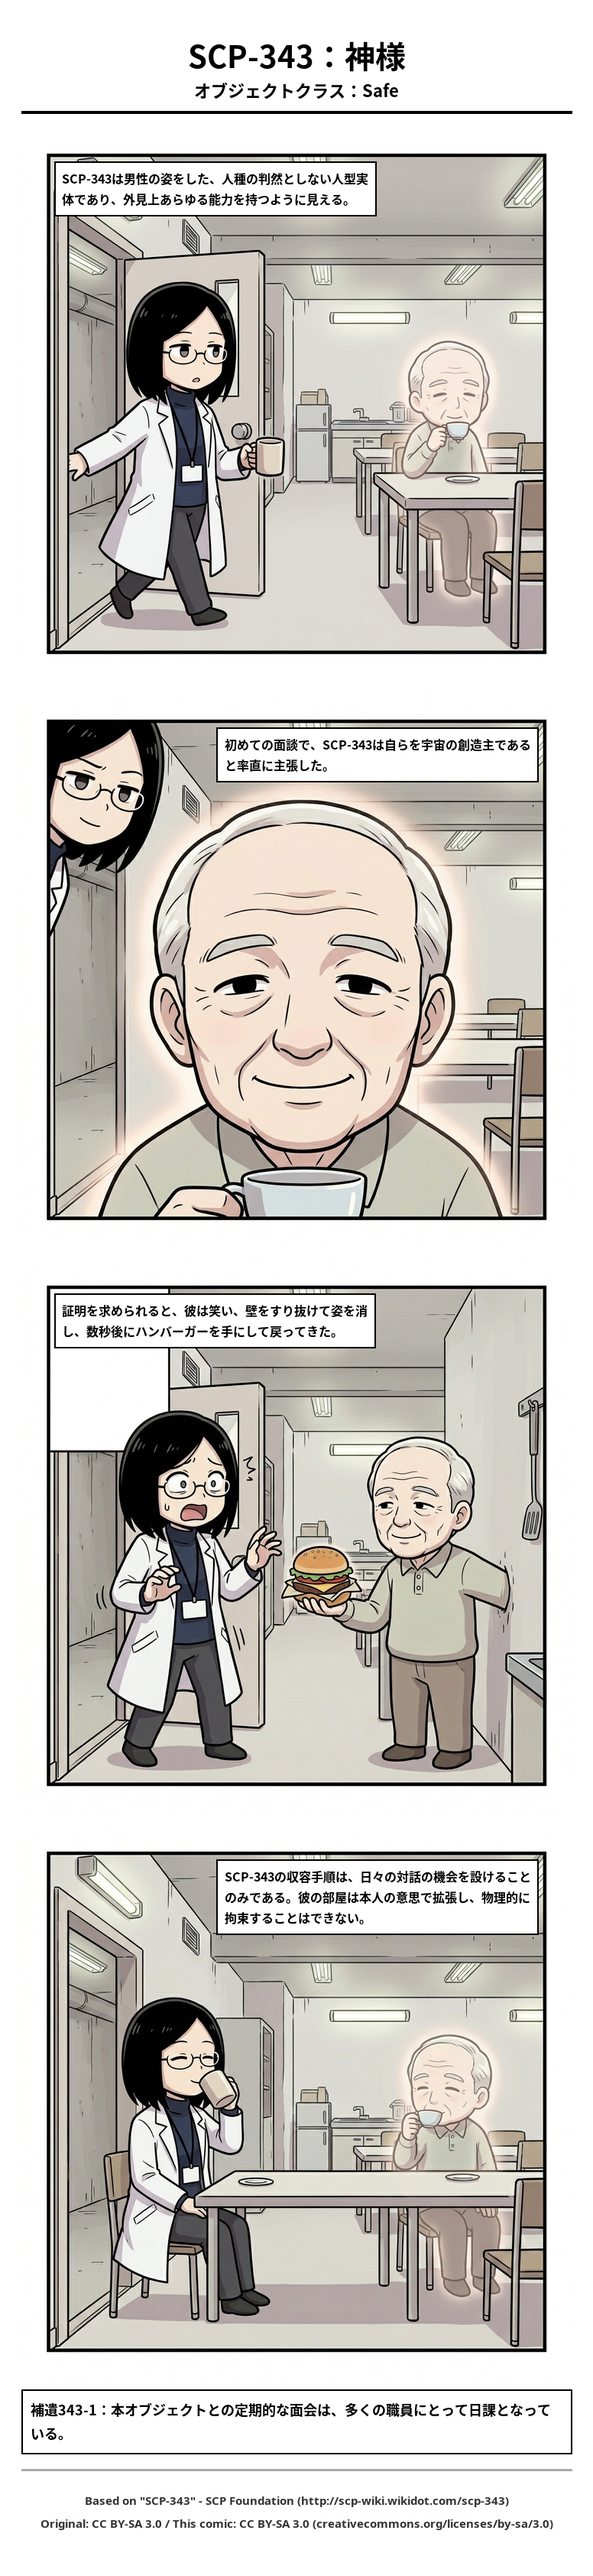
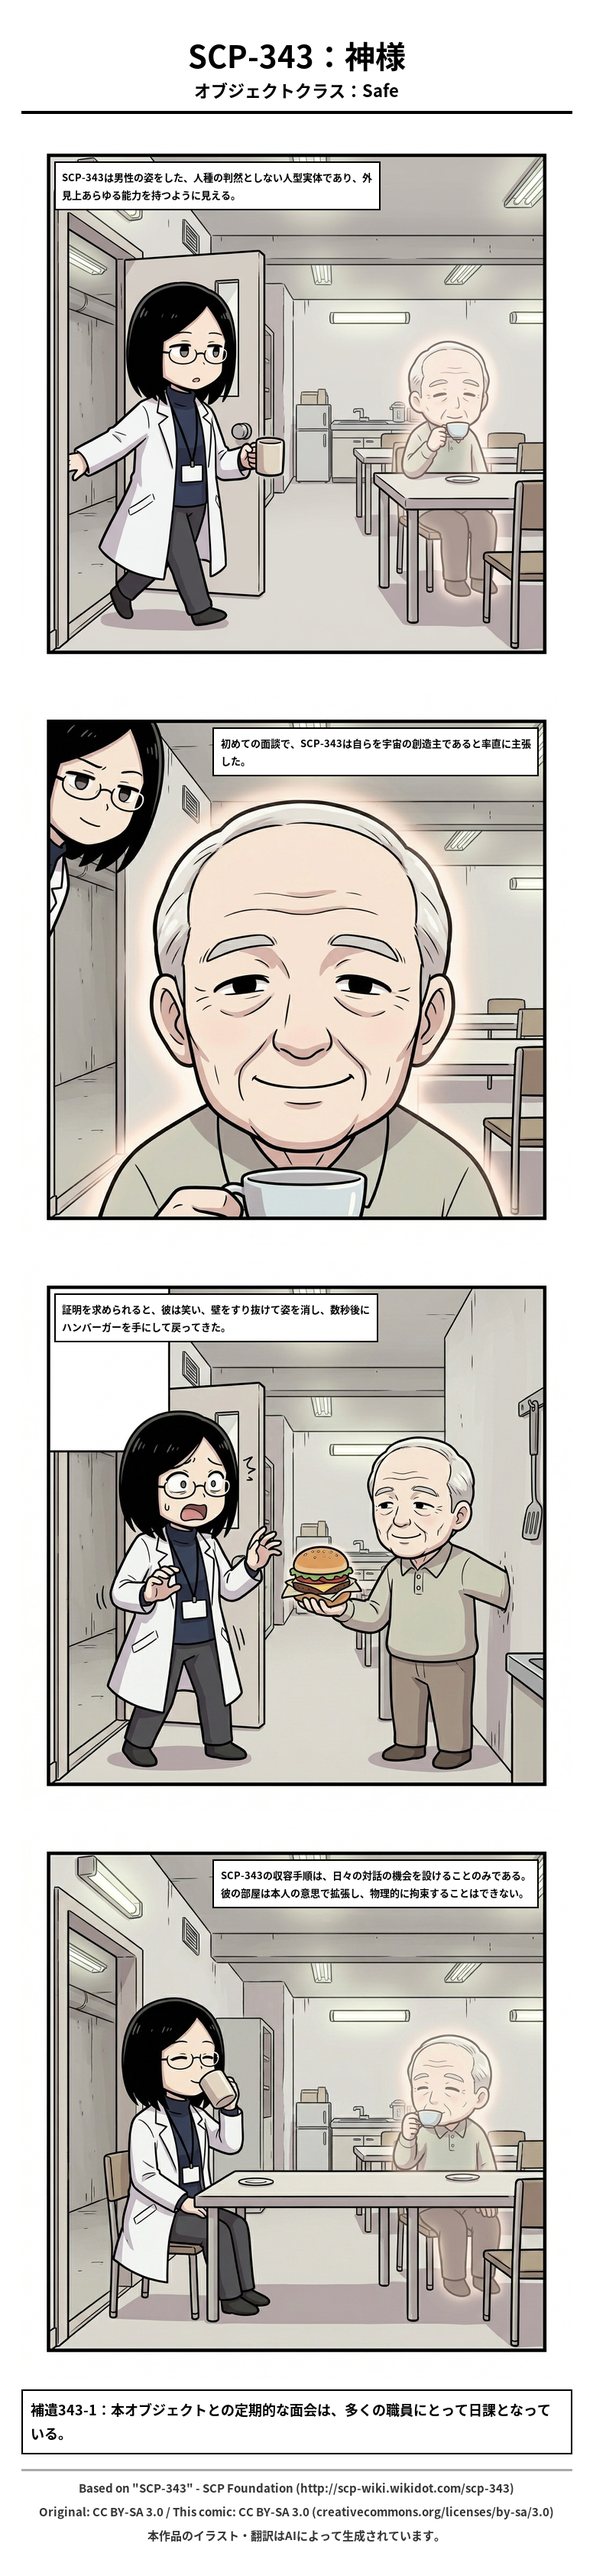
Add per-panel generation, character-order guidance, and AI-notice footer
- generate_panels.py / run_pipeline.py: add --panel N to regenerate (or
  generate --variants candidates for) a single panel instead of the
  whole comic. prompts.json is now merged per-panel (keyed by panel
  number) instead of overwritten, both for the direct generate() log and
  the panels_temp/ variants log, so partial reruns don't lose history
  for untouched panels.
- CLAUDE.md: document that characters[] order (and local_characters, see
  below) should match the order actions are described in scene, since
  testing showed the model binds visual identity to role/position by
  list order — not just by name — when a scene has two characters doing
  distinct things. Mismatched order causes the wrong character to
  visually perform the wrong role (confirmed on scp-105 panel 3).
- scp-105.yaml: apply local_characters to register SCP-105 herself
  (previously undocumented/inline-only) with matching characters[]
  ordering per panel; revise panel 3's scene through several iterations
  ending on: SCP-105 holds the photo and reaches a free hand behind it,
  a warp-gate-like portal floats near the table with a hand emerging
  from it, and the researcher reacts in shock.
- Footer: add a per-language "generated with AI" notice. Moved footer
  text drawing from compose.py (which drew the same 2 English lines into
  base.png for every language) to embed_text.py, appending the
  translated notice (config/languages.yaml: ai_notice, 15 languages) to
[…]

diff --git a/scripts/generate_panels.py b/scripts/generate_panels.py
@@ -110,7 +110,24 @@ def make_mock_panel(index):
     return img
 
 
-def generate(script, cfgs, mock=False):
+def _check_panel_index(script, panel):
+    n = len(script["panels"])
+    if panel is not None and not (1 <= panel <= n):
+        raise ValueError(f"--panel must be between 1 and {n} (got {panel})")
+
+
+def _merge_prompts_log(existing, new_entries):
+    """panel番号をキーに、既存ログへ新しいエントリを上書きマージする
+    （--panel指定で1コマだけ再生成した場合に他コマのログを消さないため）。"""
+    by_panel = {e["panel"]: e for e in existing}
+    for e in new_entries:
+        by_panel[e["panel"]] = e
+    return [by_panel[k] for k in sorted(by_panel)]
+
+
+def generate(script, cfgs, mock=False, panel=None):
+    """全コマ、または panel（1始まりのコマ番号）を指定すればそのコマだけ生成する。"""
+    _check_panel_index(script, panel)
     comic_dir = os.path.join(cfglib.OUTPUT_DIR, script["id"])
     panels_dir = os.path.join(comic_dir, "panels")
     os.makedirs(panels_dir, exist_ok=True)
@@ -119,24 +136,38 @@ def generate(script, cfgs, mock=False):
     provider_name = gen_cfg.get("provider", "gemini")
     provider = providers.get(provider_name) if not mock else None
 
-    prompts_log = []
     n = len(script["panels"])
+    targets = [panel] if panel else list(range(1, n + 1))
+
+    # 単一コマ指定時、前コマ参照用にディスク上の既存panel_k.pngを拾っておく
     prev_paths = []
-    for i, panel in enumerate(script["panels"], 1):
+    for k in range(1, targets[0]):
+        existing = os.path.join(panels_dir, f"panel_{k}.png")
+        if os.path.exists(existing):
+            prev_paths.append(existing)
+
+    prompts_log = []
+    for i in targets:
+        p = script["panels"][i - 1]
         out_path = os.path.join(panels_dir, f"panel_{i}.png")
-        prompt = build_prompt(script, panel, cfgs, provider_name)
+        prompt = build_prompt(script, p, cfgs, provider_name)
         prompts_log.append({"panel": i, "prompt": prompt})
         print(f"[generate] panel {i}/{n}")
         if mock:
             img = make_mock_panel(i)
         else:
-            refs = collect_reference_images(script, panel, cfgs, prev_paths)
+            refs = collect_reference_images(script, p, cfgs, prev_paths)
             img = provider.generate_image(prompt, refs, gen_cfg)
         img.convert("RGB").save(out_path)
         prev_paths.append(out_path)
 
-    with open(os.path.join(panels_dir, "prompts.json"), "w", encoding="utf-8") as f:
-        json.dump(prompts_log, f, ensure_ascii=False, indent=2)
+    prompts_path = os.path.join(panels_dir, "prompts.json")
+    existing_log = []
+    if os.path.exists(prompts_path):
+        with open(prompts_path, encoding="utf-8") as f:
+            existing_log = json.load(f)
+    with open(prompts_path, "w", encoding="utf-8") as f:
+        json.dump(_merge_prompts_log(existing_log, prompts_log), f, ensure_ascii=False, indent=2)
     return comic_dir
 
 
@@ -156,14 +187,16 @@ def _next_variant_start(temp_dir, panel_index):
     return max_v + 1
 
 
-def generate_variants(script, cfgs, count, mock=False):
+def generate_variants(script, cfgs, count, mock=False, panel=None):
     """各コマにつきcount枚の候補を output/<id>/panels_temp/panel_N_vM.png に生成する。
+    panel（1始まりのコマ番号）を指定すればそのコマだけ候補を追加生成する。
 
     panels/panel_N.png には一切書き込まない（選別前の下書き置き場）。
     人手でpanels_temp/から気に入った1枚を選び、panels/panel_N.pngとして
     保存してから --skip-generate で合成・埋め込みを実行する運用を想定している。
     既に候補が残っている場合は上書きせず、次のバージョン番号から追加生成する。
     """
+    _check_panel_index(script, panel)
     comic_dir = os.path.join(cfglib.OUTPUT_DIR, script["id"])
     temp_dir = os.path.join(comic_dir, "panels_temp")
     os.makedirs(temp_dir, exist_ok=True)
@@ -172,10 +205,13 @@ def generate_variants(script, cfgs, count, mock=False):
     provider_name = gen_cfg.get("provider", "gemini")
     provider = providers.get(provider_name) if not mock else None
 
-    prompts_log = []
     n = len(script["panels"])
-    for i, panel in enumerate(script["panels"], 1):
-        prompt = build_prompt(script, panel, cfgs, provider_name)
+    targets = [panel] if panel else list(range(1, n + 1))
+
+    prompts_log = []
+    for i in targets:
+        p = script["panels"][i - 1]
+        prompt = build_prompt(script, p, cfgs, provider_name)
         prompts_log.append({"panel": i, "prompt": prompt})
         start = _next_variant_start(temp_dir, i)
         for offset in range(count):
@@ -190,17 +226,19 @@ def generate_variants(script, cfgs, count, mock=False):
                 img = provider.generate_image(prompt, [], gen_cfg)
             img.convert("RGB").save(out_path)
 
+    # 画像候補(panel_N_vM.png)は上書きせず積み上げるが、prompts.jsonは
+    # パネル番号ごとに最新のプロンプトだけ残す（ログの肥大・重複を防ぐ）
     prompts_path = os.path.join(temp_dir, "prompts.json")
     existing_log = []
     if os.path.exists(prompts_path):
         with open(prompts_path, encoding="utf-8") as f:
             existing_log = json.load(f)
     with open(prompts_path, "w", encoding="utf-8") as f:
-        json.dump(existing_log + prompts_log, f, ensure_ascii=False, indent=2)
+        json.dump(_merge_prompts_log(existing_log, prompts_log), f, ensure_ascii=False, indent=2)
 
     panels_rel = os.path.relpath(os.path.join(comic_dir, "panels"), cfglib.ROOT)
     temp_rel = os.path.relpath(temp_dir, cfglib.ROOT)
-    print(f"\n[generate] {n} panels x {count} variants -> {temp_rel}/")
+    print(f"\n[generate] {len(targets)} panel(s) x {count} variants -> {temp_rel}/")
     print(f"気に入った候補を選び {temp_rel}/panel_N_vM.png を {panels_rel}/panel_N.png "
           f"としてコピーしたら、次を実行してください:")
     print(f"  python scripts/run_pipeline.py --id {script['id']} --skip-generate")
@@ -313,15 +351,17 @@ def main():
                     help="APIを呼ばずGoogle AI Studio向けにプロンプト・参照画像を書き出す")
     ap.add_argument("--variants", type=int,
                     help="コマごとにN枚の候補をpanels_temp/に生成する（選別用、panels/は書き換えない）")
+    ap.add_argument("--panel", type=int,
+                    help="指定したコマ番号（1始まり）だけ生成する。省略時は全コマ")
     args = ap.parse_args()
     cfgs = cfglib.load_configs()
     script = cfglib.load_script(args.script_path)
     if args.export_prompts:
         export_prompts(script, cfgs)
     elif args.variants:
-        generate_variants(script, cfgs, args.variants, mock=args.mock)
+        generate_variants(script, cfgs, args.variants, mock=args.mock, panel=args.panel)
     else:
-        generate(script, cfgs, mock=args.mock)
+        generate(script, cfgs, mock=args.mock, panel=args.panel)
 
 
 if __name__ == "__main__":

diff --git a/scripts/run_pipeline.py b/scripts/run_pipeline.py
@@ -6,6 +6,8 @@
   python scripts/run_pipeline.py --id scp-999 --skip-generate --mock  # 合成以降のみ
   python scripts/run_pipeline.py --id scp-999 --export-prompts  # Google AI Studio向けに書き出し
   python scripts/run_pipeline.py --id scp-999 --variants 4      # 選別用に候補を複数生成
+  python scripts/run_pipeline.py --id scp-999 --panel 3         # 3コマ目だけ再生成
+  python scripts/run_pipeline.py --id scp-999 --panel 3 --variants 4  # 3コマ目だけ候補を追加生成
 
 処理内容: 生成(generate_panels) -> 合成(compose) -> 言語別埋め込み(embed_text)
           -> 台本をdone/へ移動 -> index.json更新
@@ -63,7 +65,7 @@ def move_to_done(script_path):
 
 
 def process(script_path, cfgs, mock=False, languages=None, skip_generate=False,
-            export_prompts=False, variants=None):
+            export_prompts=False, variants=None, panel=None):
     script = cfglib.load_script(script_path)
     print(f"=== {script['id']} ({script_path}) ===")
     if export_prompts:
@@ -72,10 +74,10 @@ def process(script_path, cfgs, mock=False, languages=None, skip_generate=False,
     if variants:
         # 選別用の候補生成のみ行う。panels/はまだ確定していないので
         # 合成・埋め込み・done移動・used.json記録は行わずここで止める
-        generate_panels.generate_variants(script, cfgs, variants, mock=mock)
+        generate_panels.generate_variants(script, cfgs, variants, mock=mock, panel=panel)
         return
     if not skip_generate:
-        generate_panels.generate(script, cfgs, mock=mock)
+        generate_panels.generate(script, cfgs, mock=mock, panel=panel)
     compose.compose(script, cfgs)
     embed_text.embed(script, cfgs, languages=languages)
     # 成功したらキューからdoneへ移し、生成済みとして記録（mock実行では何もしない）
@@ -103,6 +105,9 @@ def main():
                     help="コマごとにN枚の候補をoutput/<id>/panels_temp/に生成して停止する"
                          "（panels/は書き換えない。選別後にpanels/panel_N.pngへ手動で"
                          "コピーしてから--skip-generateで続きを実行する）")
+    ap.add_argument("--panel", type=int,
+                    help="指定したコマ番号（1始まり）だけ生成する。省略時は全コマ。"
+                         "--variantsと併用可（そのコマだけ候補を追加生成）")
     args = ap.parse_args()
 
     cfgs = cfglib.load_configs()
@@ -118,7 +123,7 @@ def main():
         # --id は明示指定なので生成済みでも(再)処理する
         process(find_script(args.comic_id), cfgs, mock=args.mock, languages=langs,
                 skip_generate=args.skip_generate, export_prompts=args.export_prompts,
-                variants=args.variants)
+                variants=args.variants, panel=args.panel)
     else:
         queue = queued_scripts()
         if not queue:
@@ -138,7 +143,7 @@ def main():
                 continue
             process(path, cfgs, mock=args.mock, languages=langs,
                     skip_generate=args.skip_generate, export_prompts=args.export_prompts,
-                    variants=args.variants)
+                    variants=args.variants, panel=args.panel)
             processed += 1
         if processed == 0:
             print("No unprocessed scripts in queue. Nothing generated.")

diff --git a/scripts/embed_text.py b/scripts/embed_text.py
@@ -14,6 +14,7 @@ from PIL import Image, ImageDraw
 sys.path.insert(0, os.path.dirname(__file__))
 from lib import config as cfglib  # noqa: E402
 from lib import drawing  # noqa: E402
+import compose  # noqa: E402
 
 
 def resolve_area(position, presets):
@@ -118,6 +119,16 @@ def embed(script, cfgs, languages=None):
             if not fits:
                 print(f"[embed] WARN: text overflow {script['id']} "
                       f"addendum lang={lang}")
+
+        if meta.get("footer_rect"):
+            ai_notice = (lang_cfg.get("ai_notice") or {}).get(lang) \
+                or (lang_cfg.get("ai_notice") or {}).get("en")
+            footer_lines = compose.build_footer_lines(script)
+            if ai_notice:
+                footer_lines = footer_lines + [ai_notice]
+            drawing.draw_footer_text(draw, meta["footer_rect"], footer_lines,
+                                     font_path, layout["footer"],
+                                     fallback_path=fallback_path)
 
         out = os.path.join(comic_dir, f"{lang}.png")
         # Windows環境で稀に一時的なファイルロック(OSError: Invalid argument)が

diff --git a/scripts/lib/drawing.py b/scripts/lib/drawing.py
@@ -246,15 +246,16 @@ def draw_caption_text(draw, rect, text, font_path, caption_cfg,
     return fits
 
 
-def draw_footer_text(draw, footer_rect, lines_of_text, font_path, footer_cfg):
-    """ライセンス表記をフッター帯に描く。"""
+def draw_footer_text(draw, footer_rect, lines_of_text, font_path, footer_cfg,
+                     fallback_path=None):
+    """ライセンス表記（+言語別のAI利用告知）をフッター帯に描く。"""
     x0, y0, x1, y1 = footer_rect
     size = footer_cfg["font_size"]
     spacing = footer_cfg["line_spacing"]
     # 全行が幅に収まるサイズまで縮小
-    fs = textutil.FontSet(font_path, size)
+    fs = textutil.FontSet(font_path, size, fallback_path=fallback_path)
     while size > 10:
-        fs = textutil.FontSet(font_path, size)
+        fs = textutil.FontSet(font_path, size, fallback_path=fallback_path)
         if all(fs.width(draw, ln) <= (x1 - x0) * 0.96 for ln in lines_of_text):
             break
         size -= 1

diff --git a/scripts/compose.py b/scripts/compose.py
@@ -114,14 +114,13 @@ def compose(script, cfgs):
     if has_addendum:
         drawing.draw_caption_frame(draw, addendum_rect, addendum_cfg)
 
-    # フッター（ライセンス表記・全言語共通）
+    # フッターの罫線のみここで描く（文字は「AI利用」の一文を言語別にする都合上、
+    # ライセンス表記2行とまとめてembed_text.pyが言語別に描く。build_footer_linesは
+    # そちらから呼ばれる）
     frule = layout["footer"].get("rule_width", 0)
     if frule:
         y = footer_rect[1]
         draw.rectangle((margin, y, width - margin, y + frule), fill="#AAAAAA")
-    footer_font = cfglib.rootpath(lang_cfg["fonts"]["default"])
-    drawing.draw_footer_text(draw, footer_rect, build_footer_lines(script),
-                             footer_font, layout["footer"])
 
     base_path = os.path.join(comic_dir, "base.png")
     img.save(base_path)

diff --git a/CLAUDE.md b/CLAUDE.md
@@ -35,8 +35,18 @@ Claude Codeが行う**（自動化なし）。全体像はREADME.md参照。
        sceneでも常に"SCP-105"と書き、"the subject"等の言い換えをしない）。名称を一致
        させることで、画像生成プロンプトに自動挿入される容姿description（後述）と
        scene中の呼び方がズレず、コマごとに容姿の説明を手書きし直す必要もなくなる
+     - 複数人物が特定の役割・動作（誰が何を持つ、誰が何をする等）を担うコマでは、
+       **sceneの左右位置の明示（"On the left..." / "On the right..."）を検討する**。
+       画像生成モデルは同じ文中に複数の行動主体がいると、どちらがどちらの役かを
+       取り違えることがある（重複キャラ問題や役割の入れ替わり）。位置を明示すると
+       「誰が画面のどちら側で何をするか」は安定するが、**「どちらの容姿がどちらの
+       役を演じるか」は`characters`欄（後述）に書いた順序が決める**ことを検証で
+       確認した——sceneの文中で最初に行動が説明される人物を`characters`欄でも
+       先頭に書くこと（順序がズレていると、sceneの記述と逆の人物がその役を演じて
+       しまう。実例: scp-105のパネル3で発生）
    - `characters`（**そのコマの絵に登場する人物全員**のキー名リスト。SCP本人・記事内の
-     関係者・財団職員を問わず、絵に描かれる人物は漏れなくここに書く）:
+     関係者・財団職員を問わず、絵に描かれる人物は漏れなくここに書く。**sceneの文中で
+     行動が説明される順序と同じ順序で書く**——理由は上記参照）:
      - 複数の漫画で使い回すキャノン職員は`config/characters.yaml`にキー名で登録済みの
        ものを参照する。**記事に書かれていない人物を勝手に創作しない**。財団職員を
        登場させるなら、SCP財団正史（キャノン）に実在する人物を使う（選定元:
